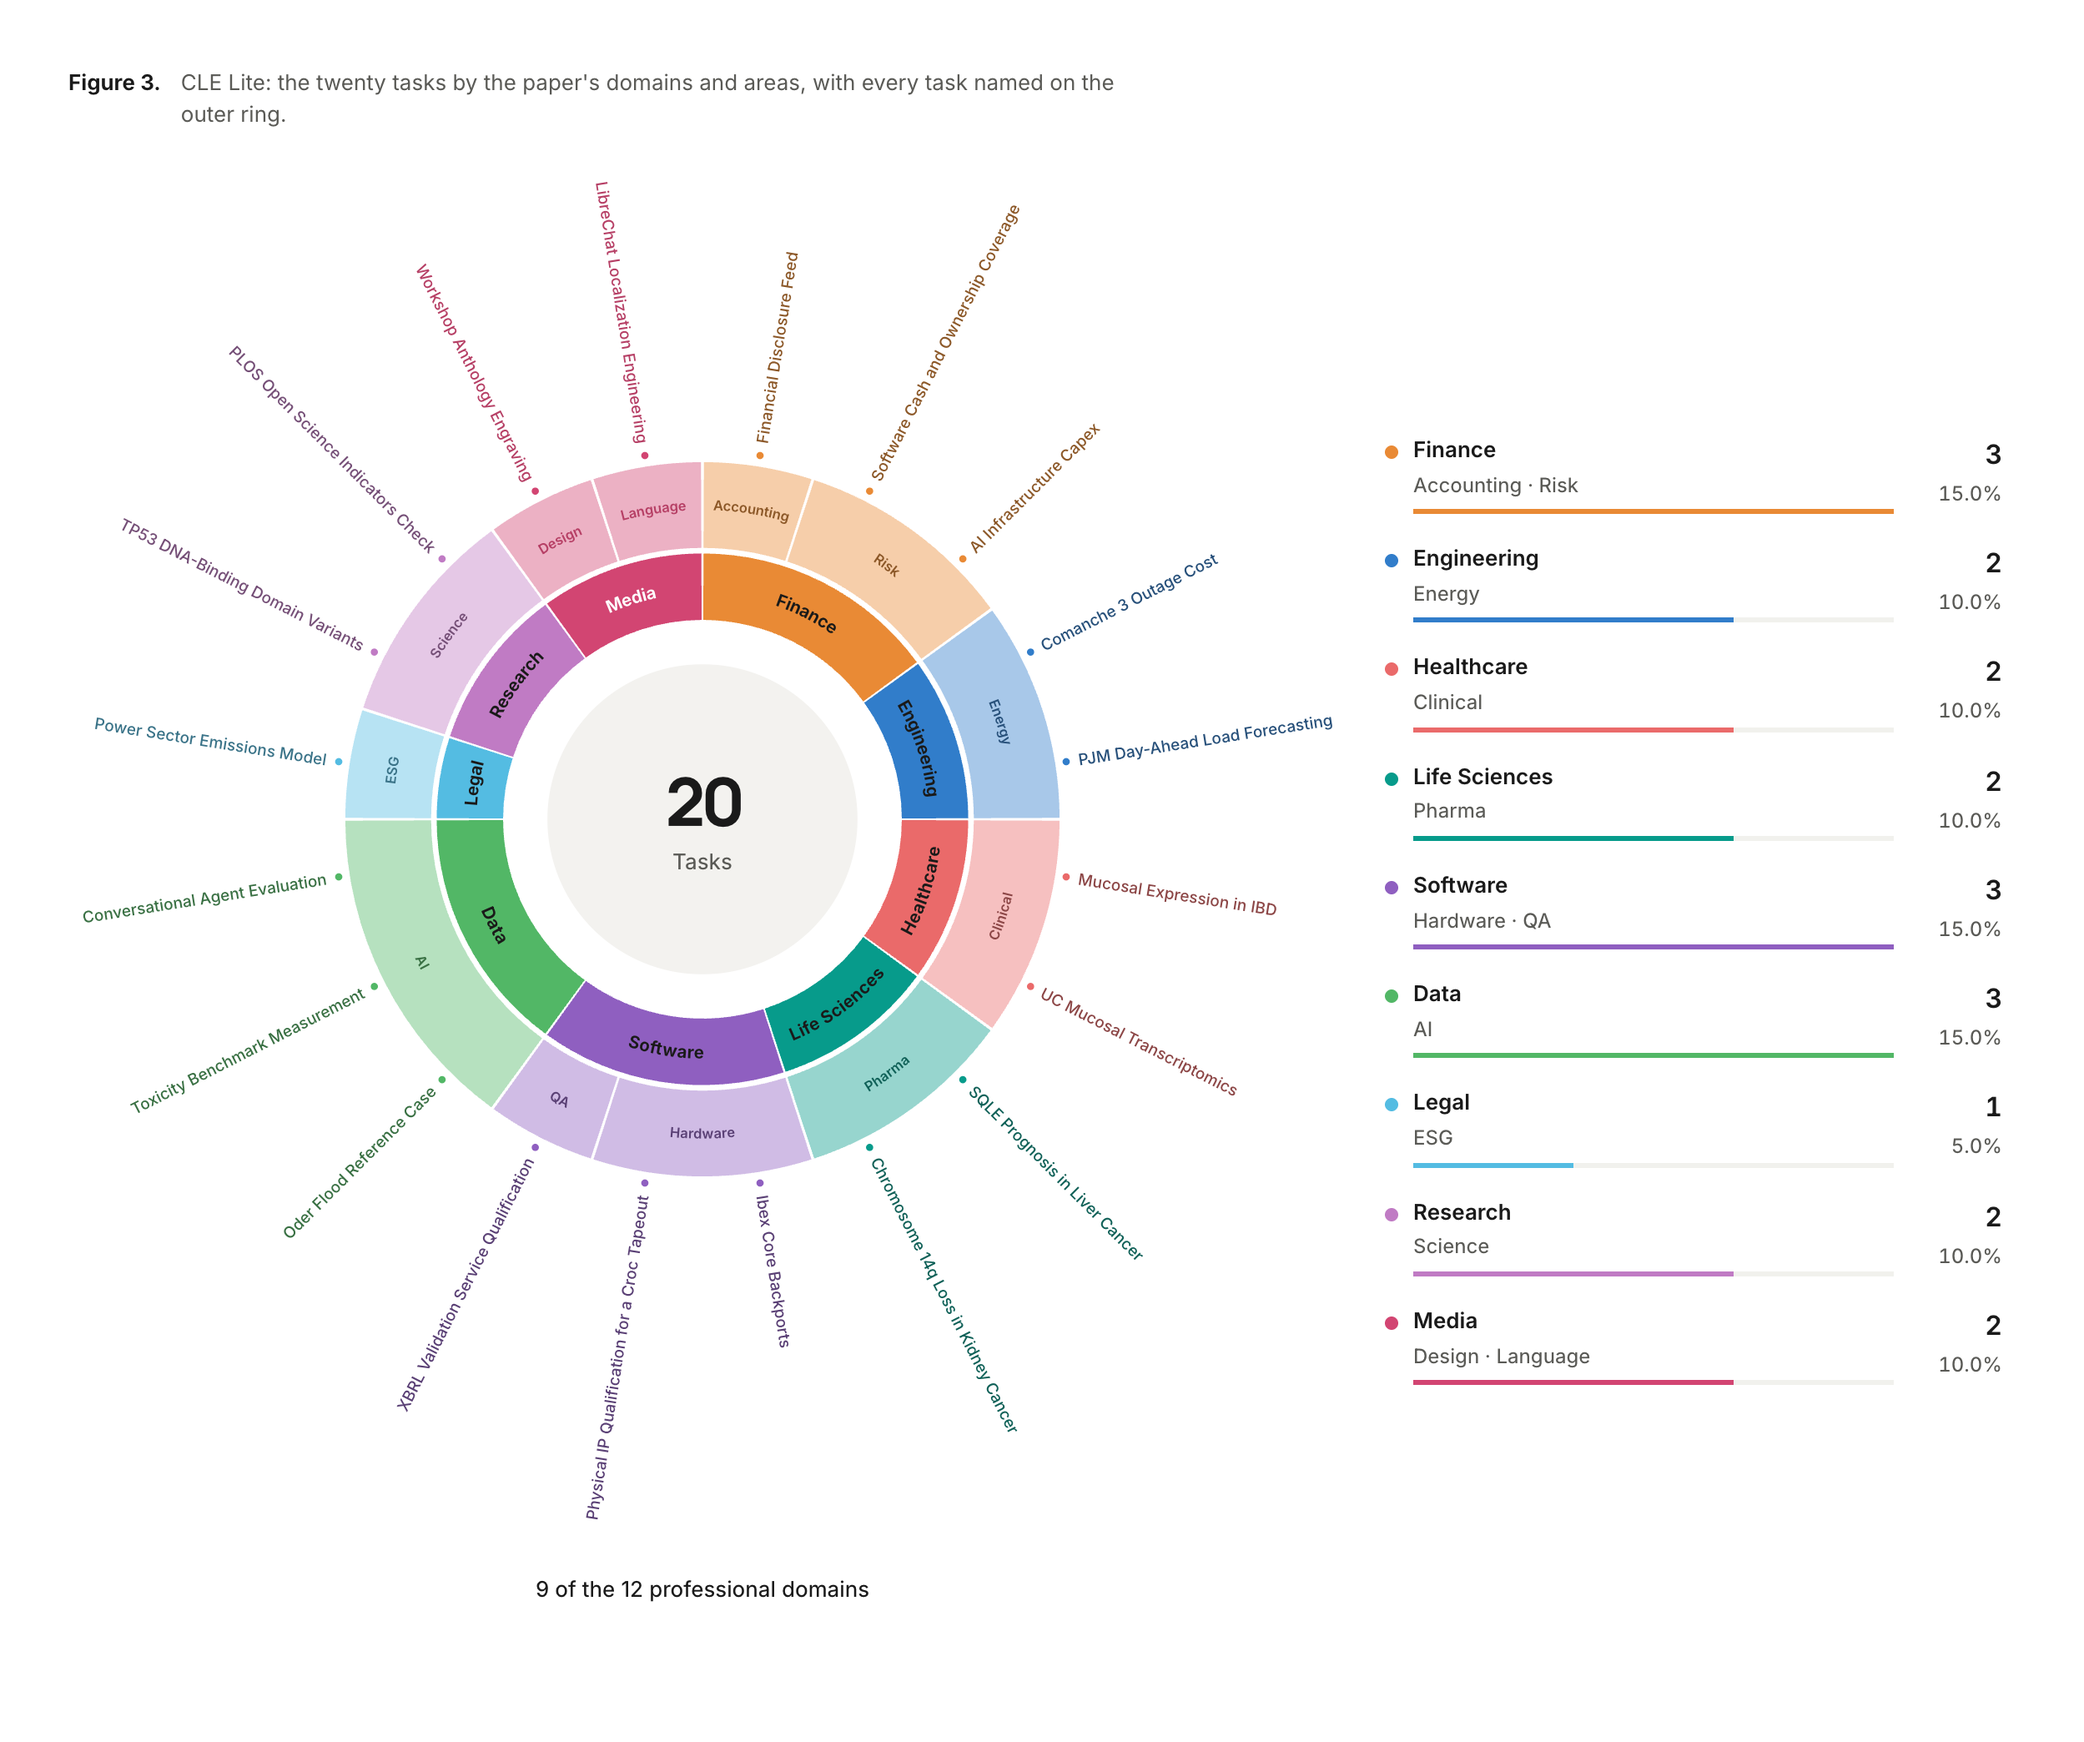
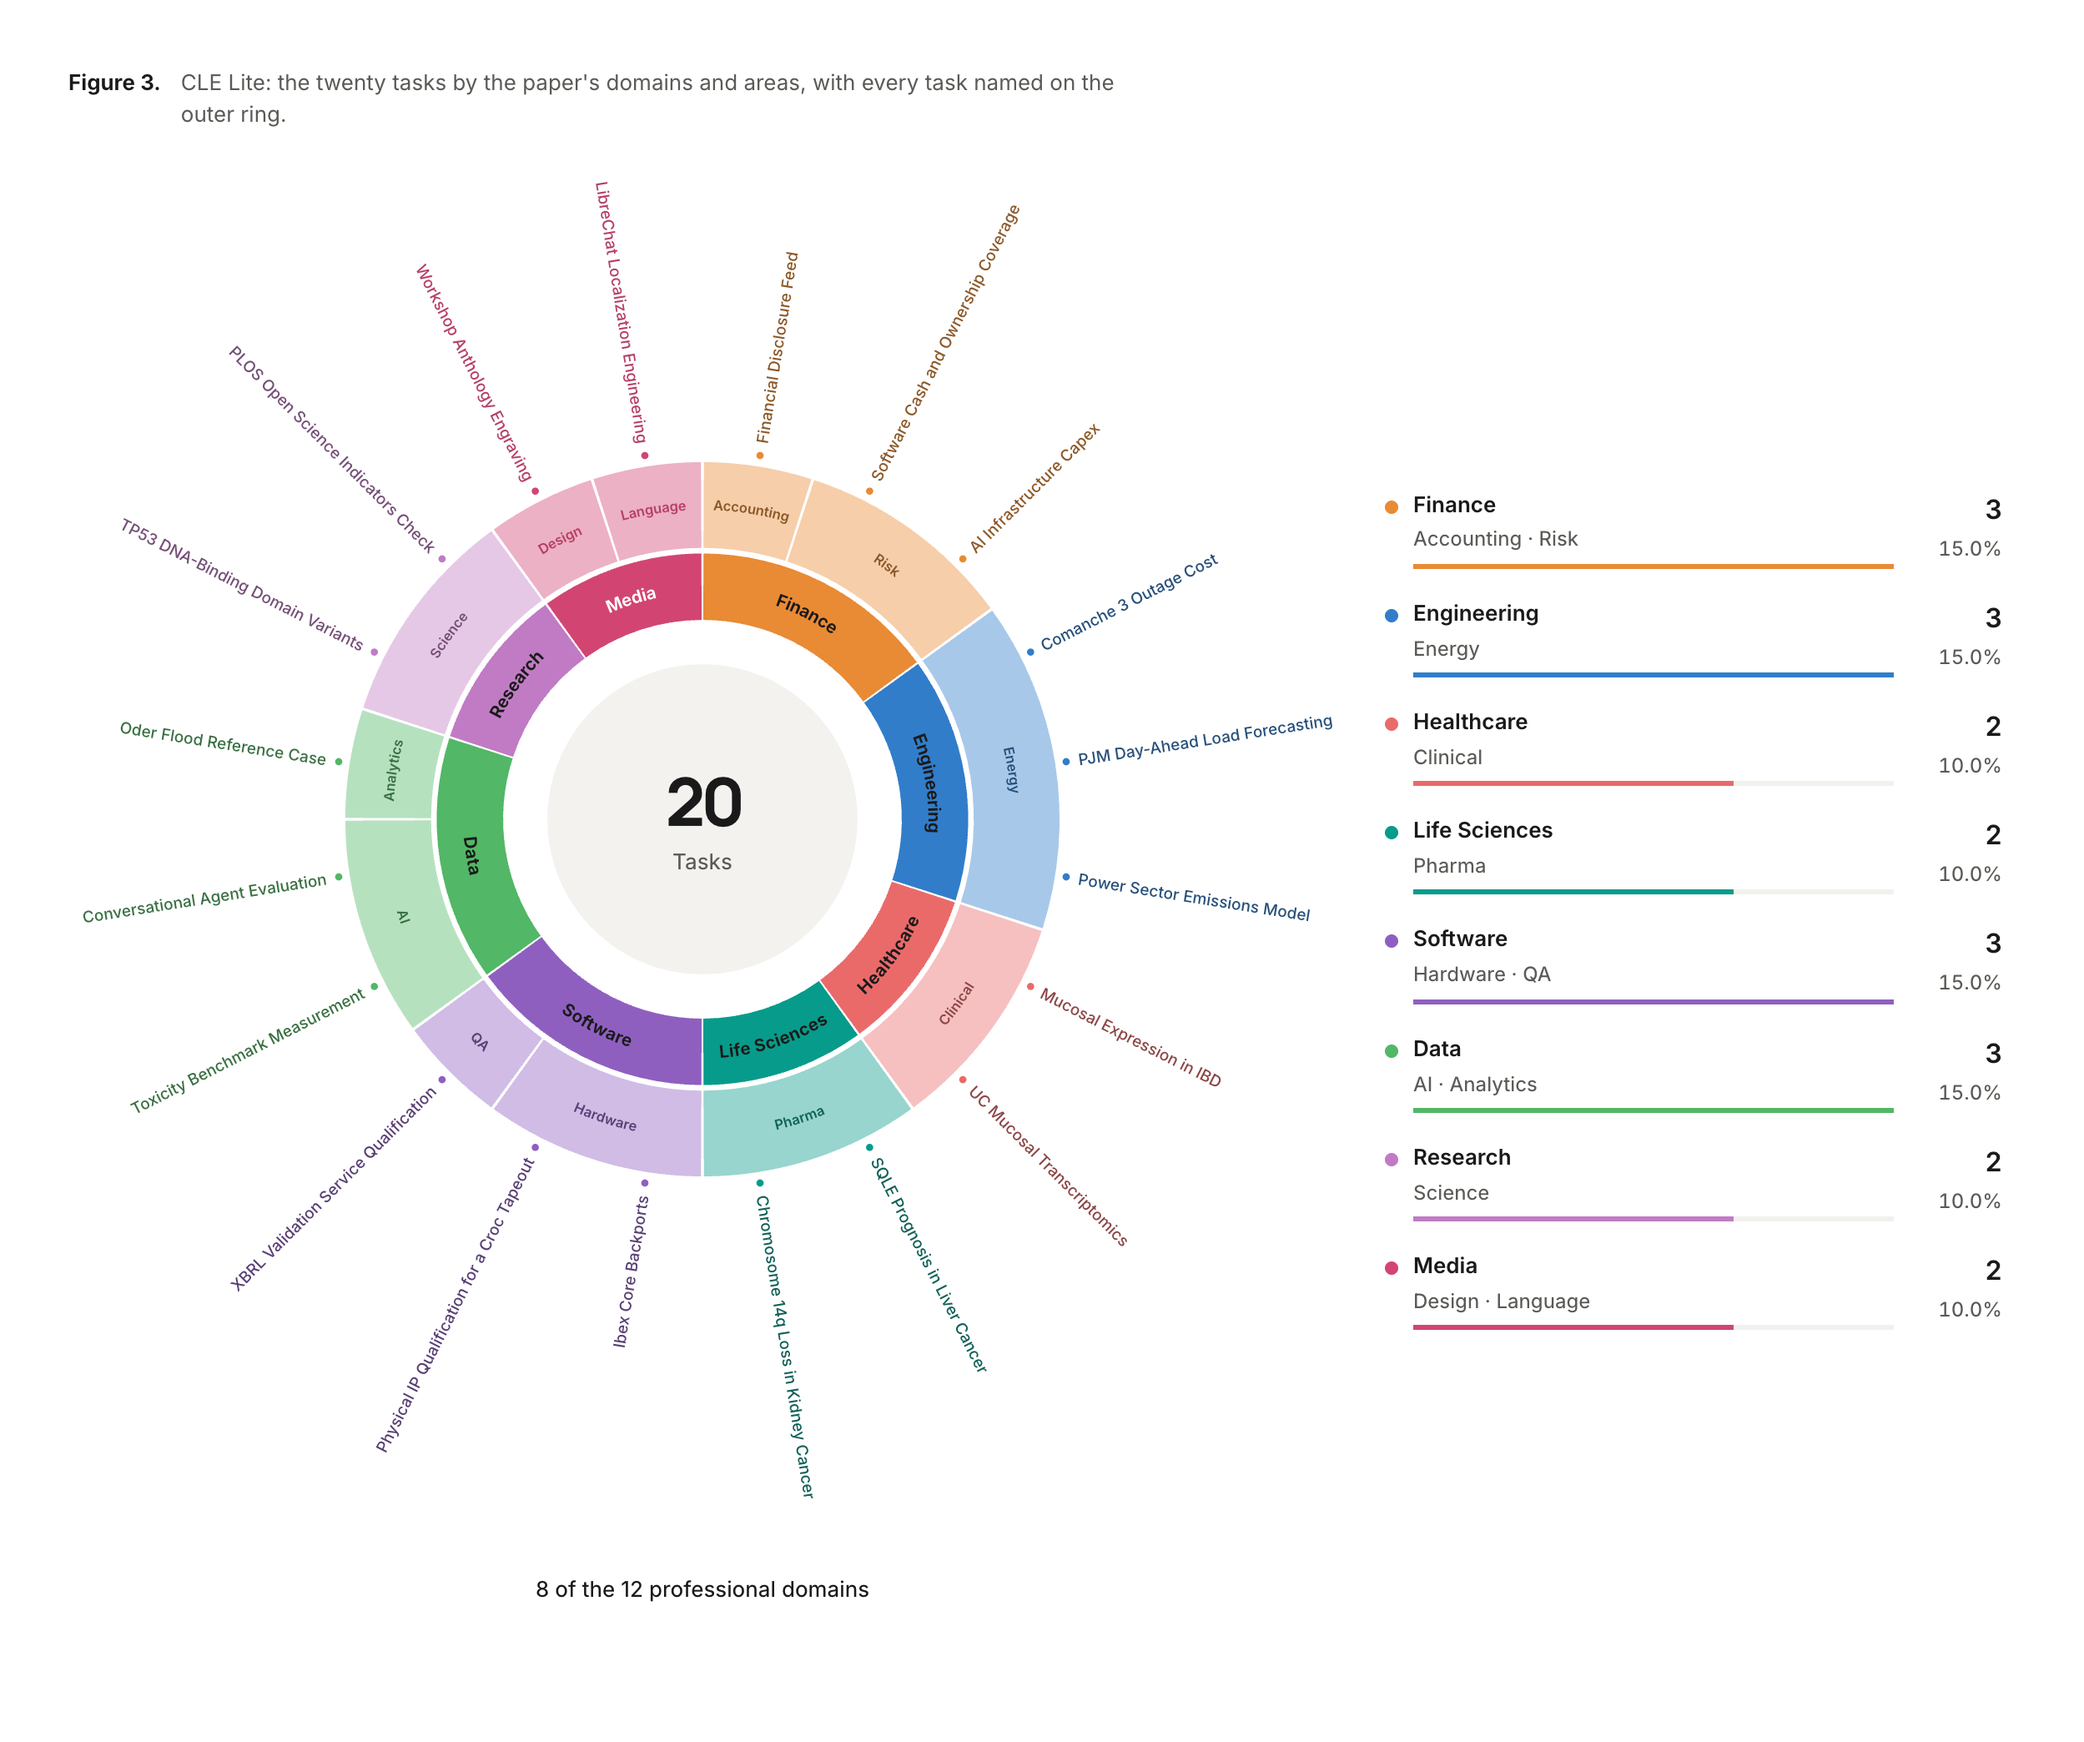
docs: pin the current CLE Lite runtime and data revisions; Trial 2 reports rubric section names; refresh Figure 3

diff --git a/docs/evaluation.md b/docs/evaluation.md
@@ -42,11 +42,11 @@ Run the commands in **Bash, in the same shell and working directory**, so the pa
 uv tool install huggingface_hub
 hf auth login
 hf download Continual-Learning-Exam/CLE-Lite-Full \
-    --repo-type dataset --revision 258561d476dc9655fb30430920272631dc43e26a \
+    --repo-type dataset --revision 26ab77e5085476d59dc8c243b928e5b8ac490ef4 \
     --include 'runtime/*' --local-dir .
 
 TASK=008-operations-research-analyst
-DATA_REVISION=04014384175aeb218c4ba7188612b1c76e87d3fc
+DATA_REVISION=803301ec01b26ab594a5ab3cdcd855a14dcc26e1
 BUNDLE="./CLE-Lite/$TASK/harbor"
 RUNTIME_ENV="./.cle-runtime-$TASK"
 
@@ -60,14 +60,14 @@ codex login --device-auth
 
 docker build -t cle-lite-codex-worker:0.160.0-cle2 \
     -f runtime/codex-worker.Dockerfile runtime
-export RSI_CODEX_DOCKER_IMAGE=cle-lite-codex-worker:0.160.0-cle2
-export RSI_CODEX_AUTH_FILE="$HOME/.codex/auth.json"
-export RSI_CODEX_TRANSPORT=https
+export CLE_CODEX_DOCKER_IMAGE=cle-lite-codex-worker:0.160.0-cle2
+export CLE_CODEX_AUTH_FILE="$HOME/.codex/auth.json"
+export CLE_CODEX_TRANSPORT=https
 ```
 
 The first download retrieves the runtime scripts; the `download` command then retrieves the selected task, verifies its recorded file hashes, and restores required permissions and timestamps. `setup` installs the task's recorded Python and package versions with Harbor 0.22.0. The runtime and task data are pinned to separate revisions; record both when reporting results.
 
-If already logged in to Codex, skip `codex login` and point `RSI_CODEX_AUTH_FILE` at the existing login file.
+If already logged in to Codex, skip `codex login` and point `CLE_CODEX_AUTH_FILE` at the existing login file.
 
 ### 2. Configure the judge
 
@@ -91,10 +91,10 @@ This option uses the Codex login configured in step 1:
 ```bash
 JUDGE_BACKEND=codex
 JUDGE_MODEL=gpt-6.1-sol
-export RSI_CODEX_REASONING_EFFORT=low
+export CLE_CODEX_REASONING_EFFORT=low
 ```
 
-The `low` effort setting applies to both the solver and the Codex judge. To use the runtime defaults instead, run `unset RSI_CODEX_REASONING_EFFORT` before evaluation.
+The `low` effort setting applies to both the solver and the Codex judge. To use the runtime defaults instead, run `unset CLE_CODEX_REASONING_EFFORT` before evaluation.
 
 ### 3. Run one task
 
@@ -107,7 +107,7 @@ python3 runtime/cle_lite.py run \
     --setting direct --bundle "$BUNDLE" --env "$RUNTIME_ENV" \
     --agent codex --model openai/gpt-6.1-sol \
     --judge-backend "$JUDGE_BACKEND" --judge-model "$JUDGE_MODEL" \
-    --codex-auth "$RSI_CODEX_AUTH_FILE" --results ./results/direct-008-01
+    --codex-auth "$CLE_CODEX_AUTH_FILE" --results ./results/direct-008-01
 ```
 
 **CLE · Trial 1**
@@ -117,7 +117,7 @@ python3 runtime/cle_lite.py run \
     --setting cle --trial 1 --bundle "$BUNDLE" --env "$RUNTIME_ENV" \
     --agent codex --model openai/gpt-6.1-sol \
     --judge-backend "$JUDGE_BACKEND" --judge-model "$JUDGE_MODEL" \
-    --codex-auth "$RSI_CODEX_AUTH_FILE" --results ./results/cle-trial1-008-01
+    --codex-auth "$CLE_CODEX_AUTH_FILE" --results ./results/cle-trial1-008-01
 ```
 
 **CLE · Trial 2**
@@ -127,7 +127,7 @@ python3 runtime/cle_lite.py run \
     --setting cle --trial 2 --bundle "$BUNDLE" --env "$RUNTIME_ENV" \
     --agent codex --model openai/gpt-6.1-sol \
     --judge-backend "$JUDGE_BACKEND" --judge-model "$JUDGE_MODEL" \
-    --codex-auth "$RSI_CODEX_AUTH_FILE" --results ./results/cle-trial2-008-01
+    --codex-auth "$CLE_CODEX_AUTH_FILE" --results ./results/cle-trial2-008-01
 ```
 
 Inspect these files in the selected results directory:
@@ -166,7 +166,7 @@ python3 runtime/cle_lite.py stream \
     --setting cle --trial 1 --task-list runtime/lite-example-tasks.json \
     --agent codex --model openai/gpt-6.1-sol \
     --judge-backend "$JUDGE_BACKEND" --judge-model "$JUDGE_MODEL" \
-    --codex-auth "$RSI_CODEX_AUTH_FILE" --results ./results/cle-stream-trial1-01
+    --codex-auth "$CLE_CODEX_AUTH_FILE" --results ./results/cle-stream-trial1-01
 ```
 
 **CLE stream · Trial 2**
@@ -176,7 +176,7 @@ python3 runtime/cle_lite.py stream \
     --setting cle --trial 2 --task-list runtime/lite-example-tasks.json \
     --agent codex --model openai/gpt-6.1-sol \
     --judge-backend "$JUDGE_BACKEND" --judge-model "$JUDGE_MODEL" \
-    --codex-auth "$RSI_CODEX_AUTH_FILE" --results ./results/cle-stream-trial2-01
+    --codex-auth "$CLE_CODEX_AUTH_FILE" --results ./results/cle-stream-trial2-01
 ```
 
 Tasks run in the order specified by the task-list file. Its paths are relative to that file. See [Custom task lists](#custom-task-lists) to choose your own sequence.
@@ -212,7 +212,7 @@ The [Quick start](#quick-start) explains how to select Direct or CLE mode. Both 
 
 - **Progression:** in CLE mode, the task ends when the agent exhausts its allowed submissions without passing, or runs out of execution time. Unreached levels count as failed.
 - **Time budget:** each level uses the execution budget recorded in its task package. Trial 2 submissions share that budget. Grading time is excluded.
-- **Feedback:** Trial 2 identifies unmet rubric categories. The current release uses the category `Deliverables`; see [Feedback categories](#feedback-categories) for how this maps to the task checklist. Private rubrics, reference answers, and judge logs stay outside the solver workspace.
+- **Feedback:** Trial 2 identifies unmet rubric categories, the section titles of the level's rubric (for example `Fiscal quarters and trailing year`); see [Feedback categories](#feedback-categories) for how this maps to the task checklist. Private rubrics, reference answers, and judge logs stay outside the solver workspace.
 - **Errors:** runs interrupted by infrastructure or judge errors are marked invalid.
 
 For a CLE Lite evaluation, **completion = cleared levels / (5 × number of selected tasks)**. For example, clearing seven levels across two tasks gives 7/10, or **70% completion**. L1–L5 use the same cumulative definition as the table below, with the selected tasks as the denominator. Values in `summary.json` are fractions from 0 to 1.
@@ -229,7 +229,7 @@ Record the runtime and data revisions, task order, solver model, judge model and
 
 ### Feedback categories
 
-Trial 2 returns the names of rubric categories containing failed checks after the first unsuccessful submission. The released tasks group their checklist under **A. Deliverables**, so the feedback category is **Deliverables**. The agent receives the category name and can revise its submission within the remaining level budget.
+Trial 2 returns the names of rubric categories containing failed checks after the first unsuccessful submission. The categories are the section titles of each level's rubric page in CLE-Lite-Rubrics (for example `Fiscal quarters and trailing year`); the runtime's `rubric-categories.json` maps every check to its section, and another mapping can be supplied with `--rubric-categories`. The agent receives the category names and can revise its submission within the remaining level budget.
 
 ### Relationship to the main experiment
 
@@ -251,7 +251,7 @@ python3 runtime/cle_lite.py grade \
     --results ./results/direct-008-regrade-01
 ```
 
-For a Codex judge, export `RSI_CODEX_AUTH_FILE` as in setup. For OpenRouter, export `OPENROUTER_API_KEY`. Changing the judge for a **CLE** evaluation requires a new run or stream: its pass gates, permitted retries and later submissions depend on the judge's earlier decisions. Regrading old snapshots cannot reconstruct that interaction.
+For a Codex judge, export `CLE_CODEX_AUTH_FILE` as in setup. For OpenRouter, export `OPENROUTER_API_KEY`. Changing the judge for a **CLE** evaluation requires a new run or stream: its pass gates, permitted retries and later submissions depend on the judge's earlier decisions. Regrading old snapshots cannot reconstruct that interaction.
 
 ## Troubleshooting
 

diff --git a/README.md b/README.md
@@ -62,7 +62,7 @@ Each task is a ladder of **five connected assignments**, giving **600 levels** i
 
 <p align="center">
   <a href="https://haoyu-zhao.github.io/CLE/#carry">
-    <img src="assets/cle-what-later-levels-reuse.png" width="960" alt="Figure 2. The five levels of PJM Day-ahead Launch, from benchmarking PJM's forecast to reviewing the weather events, linked by user context, data dependencies, strategy, tools and skills, and domain knowledge.">
+    <img src="assets/cle-what-later-levels-reuse.png" width="960" alt="Figure 2. The five levels of PJM Day-Ahead Load Forecasting, from benchmarking PJM's forecast to reviewing the weather events, linked by user context, data dependencies, strategy, tools and skills, and domain knowledge.">
   </a>
 </p>
 
@@ -91,7 +91,7 @@ Use **`run`** for one task. Use **`stream --setting cle`** for an ordered task s
 | [Task Cards](https://huggingface.co/datasets/Continual-Learning-Exam/CLE-Lite/viewer/level_cards/lite) | All 100 assignments and their input-file inventories | Public |
 | [Workspaces](https://huggingface.co/datasets/Continual-Learning-Exam/CLE-Lite-Workspaces) | Instructions and files supplied to agents | Public |
 | [Rubrics](https://huggingface.co/datasets/Continual-Learning-Exam/CLE-Lite-Rubrics) | Evaluation rubrics and reference answers | Approval required |
-| [Full Packages](https://huggingface.co/datasets/Continual-Learning-Exam/CLE-Lite-Full) | Complete task packages, container environments, simulated workplace services, runtime, and evaluation material | Approval required |
+| [Full Packages](https://huggingface.co/datasets/Continual-Learning-Exam/CLE-Lite-Full) | Complete task packages, container environments, runtime, and evaluation material | Approval required |
 
 ### Run an evaluation
 
@@ -126,7 +126,7 @@ For evaluation, use the runtime's `download` command in the guide; it also resto
 Explore selected public task examples in the task browser, with level instructions and their input materials. For downloadable packages, **CLE Lite** provides **20 tasks and 100 levels**. The main evaluation covers the full 120-task benchmark.
 
 <p align="center">
-  <img src="assets/cle-lite-domains.png" width="960" alt="Figure 3. The twenty CLE Lite tasks across nine professional domains, with each task named on the outer ring.">
+  <img src="assets/cle-lite-domains.png" width="960" alt="Figure 3. The twenty CLE Lite tasks by the paper's domains and areas, with every task named on the outer ring.">
 </p>
 
 | Resource | What you can explore |
